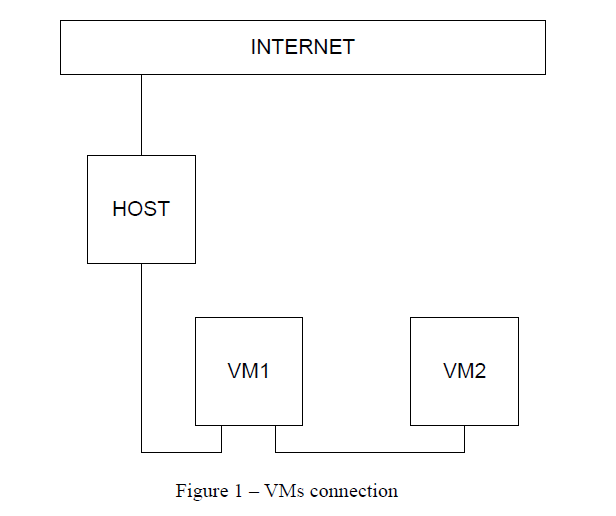
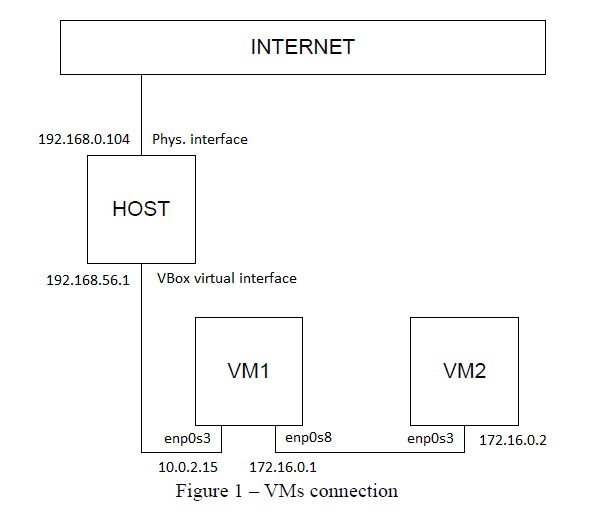
Task6.1 done

diff --git a/m6/task6.1/readme.md b/m6/task6.1/readme.md
@@ -1,8 +1,87 @@
 # Task 5.3 Networking with Linux  
 
-  1. Testing virtual network was configured as shown on the picture 1:  
+  1. Testing virtual network was configured as shown on the figure 1:  
   ![Screen1](./task_images/Screenshot_1.png)  
 
-  2. Examine the **pstree** command. Make output (highlight) the chain (ancestors) of the current process.  
-  ![Screen1](./task_images/Screenshot_1.png)  
-  Switch **-h** allows to highlight the current process and its ancestors.  
+  2. VM2 has one interface (internal), VM1 has 2 interfaces (NAT and internal). Configure all network interfaces in order to make VM2 has an access to the Internet (iptables, forward, masquerade).  
+    1. **VM1:**  
+     - second network card was added via Virtualbox Management Console:  
+     ![Screen2](./task_images/Screenshot_2.png)  
+     - Check a name given to added network interface:  
+     ![Screen3](./task_images/Screenshot_3.png)  
+     - ... and enabling interface:  
+     ![Screen4](./task_images/Screenshot_4.png)  
+     - Configuring a network interfaces via netplan settings config file:  
+     ![Screen5](./task_images/Screenshot_5.png)  
+     **sudo netplan apply** then.  
+     - Network interfaces configuration now:  
+     ![Screen6](./task_images/Screenshot_6.png)  
+     - Configuration of firewall:  
+         _Cleaning all chains and removing rules:_  
+         **iptables -F**  
+         **iptables -F -t nat**  
+         **iptables -F -t mangle**  
+         **iptables -X**  
+         **iptables -t nat -X**  
+         **iptables -t mangle -X**  
+         _Permiting of inbound traffic to loopback interface:_  
+         **iptables -A INPUT -i lo -j ACCEPT**  
+         _Accept all traffic from internal network on internal interface:_  
+         **iptables -A INPUT -i enp0s8 -s 172.16.0.0/24 -j ACCEPT**  
+         _Accepting ping (two most safety types):_  
+         **iptables -A INPUT -p icmp --icmp-type 0 -j ACCEPT**  
+         **iptables -A INPUT -p icmp --icmp-type 8 -j ACCEPT**  
+         _Allow internal connections, which where permitted earlier:_  
+         **iptables -A INPUT -m conntrack --ctstate RELATED,ESTABLISHED -j ACCEPT**  
+         _Accepting traffic forwarding as well for new and current connections:_  
+         **iptables -A FORWARD -i enp0s8 -o enp0s3 -m conntrack --ctstate NEW,RELATED,ESTABLISHED -j ACCEPT**  
+         _Accepting forwarding from external network to internal only for packets, which are a part of existing connections:_  
+         **iptables -A FORWARD -i enp0s3 -o enp0s8 -m conntrack --ctstate RELATED,ESTABLISHED -j ACCEPT**  
+         _Make an adresses translation for IPs, which belong to local network:_  
+         **iptables -t nat -A POSTROUTING -o enp0s3 -s 172.16.0.0/24 -j MASQUERADE**  
+         _Configuring default policies:_  
+         **iptables -P INPUT DROP**  
+         **iptables -P FORWARD DROP**  
+         **iptables -P OUTPUT ACCEPT**  
+
+      Result config:  
+      ![Screen7](./task_images/Screenshot_7.png)  
+      - Also enebled IPv4 forwarding in **/etc/sysctl.conf**:  
+      ![Screen8](./task_images/Screenshot_8.png)  
+
+    2. **VM2:**  
+      - Configuring a network interface via netplan settings config file:  
+      ![Screen9](./task_images/Screenshot_9.png)  
+      **sudo netplan apply** then.  
+      - Result network interfaces configuration:  
+      ![Screen10](./task_images/Screenshot_10.png)  
+
+  3. Check the route from VM2 to Host:  
+  ![Screen11](./task_images/Screenshot_11.png)  
+
+  4. Check the access to the Internet, (just ping, for example, 8.8.8.8).  
+  ![Screen12](./task_images/Screenshot_12.png)  
+
+  5. Determine, which resource has an IP address 8.8.8.8.  
+  Changing netplan config to add nameservers:  
+  ![Screen13](./task_images/Screenshot_13.png)  
+  With command **host** possible to determine, that IP 8.8.8.8 8.8 belongs to public DNS service provided by Google:  
+  ![Screen14](./task_images/Screenshot_14.png)  
+
+  6. Determine, which IP address belongs to resource epam.com.  
+  Using **nslookup** command:  
+  ![Screen15](./task_images/Screenshot_15.png)  
+
+  7. Determine the default gateway for your HOST and display routing table.  
+  **mtr google.com**:  
+  ![Screen16](./task_images/Screenshot_16.png)  
+  VM2 routing table:  
+  ![Screen17](./task_images/Screenshot_17.png)  
+  VM1 routing table:  
+  ![Screen18](./task_images/Screenshot_18.png)  
+  Host's routing table:  
+  ![Screen19](./task_images/Screenshot_19.png)  
+
+  8. Trace the route to google.com:  
+  ![Screen20](./task_images/Screenshot_.png)  
+  ![Screen19](./task_images/Screenshot_19.png)  
